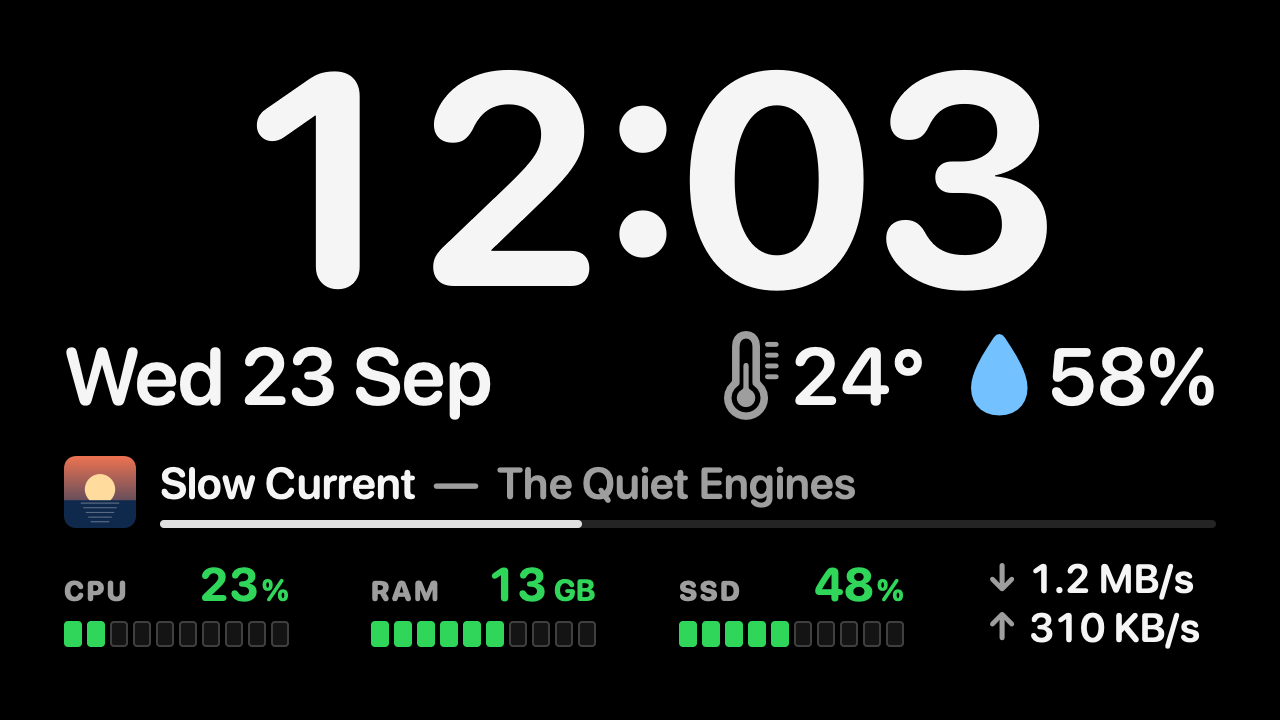
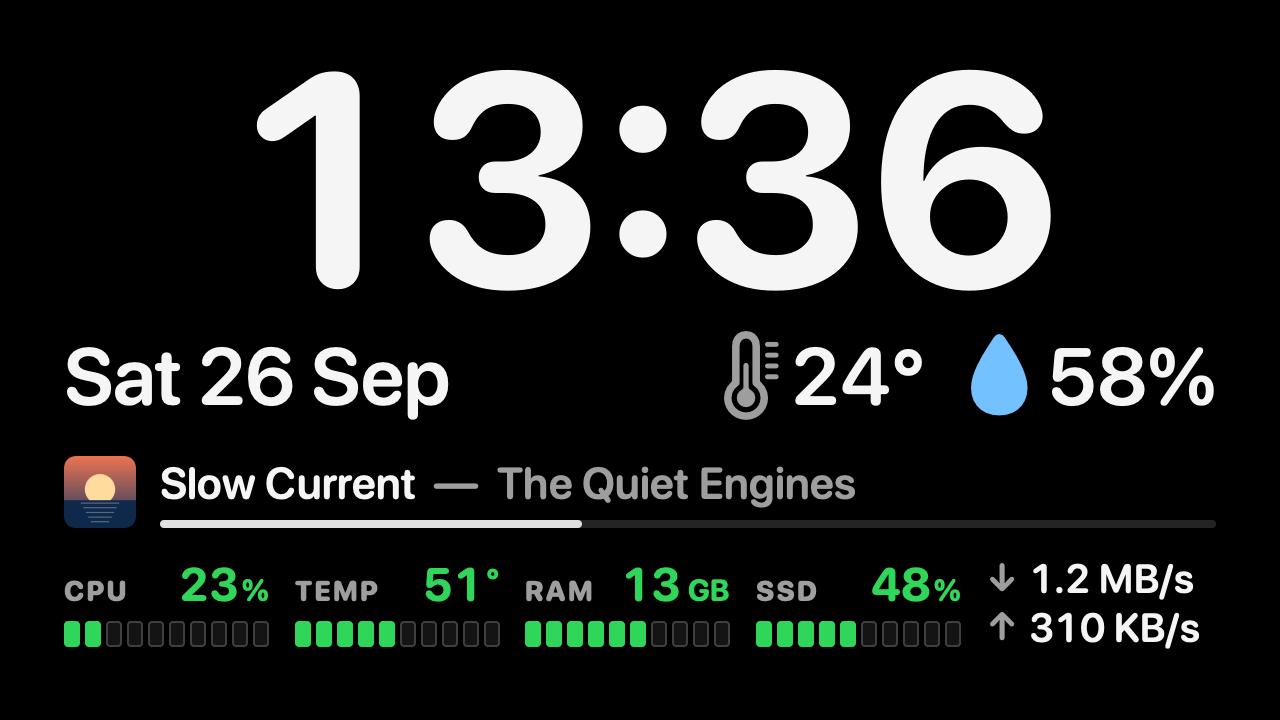
Clock page: the CPU's temperature beside its load
The stats row gains a TEMP meter after CPU: the average of the CPU
cores' temperature sensors, a segment per 10 °C, in °F when the weather
is. macOS has no public temperature API, so it reads the SMC through
IOKit's public calls, as temperature monitors do, with no root or
permission prompt, and only ever reads it. The sensors are the SMC's
float keys named Tp and Te (performance and efficiency cores), found
once by listing its keys. A read waits 3 to 6 ms on the SMC, under a
millisecond of it CPU time, so it runs every 5 s off the main thread.
Macs without the sensors leave the meter out.

Its color comes from macOS's thermal pressure rather than from degrees,
as memory's comes from memory pressure: under load the hottest core
passed 90 °C with the pressure still nominal, so a fixed threshold
would turn red on every build.

The meters narrow from 225 to 205 pt so five fit, the degree sign is
drawn small and raised like % and GB, and a rare value too wide for its
column (128 GB) shrinks slightly instead of truncating.

diff --git a/Sources/deskdash/SystemStats.swift b/Sources/deskdash/SystemStats.swift
@@ -1,5 +1,6 @@
 import Darwin
 import Foundation
+import IOKit
 
 /// The Mac's own load, for the row of meters on the clock page.
 struct SystemStats: Equatable, Sendable {
@@ -9,6 +10,8 @@ struct SystemStats: Equatable, Sendable {
     }
 
     var cpu: Double?  // share of all cores busy since the previous sample, 0...1
+    var temperature: Double?  // the CPU cores' average in °C; nil on a Mac without the sensors (CPUTemperature)
+    var thermal: ProcessInfo.ThermalState  // macOS's thermal pressure, which colors the temperature
     var memoryUsed: Double  // bytes in active, wired and compressed pages
     var memoryTotal: Double
     var pressure: Pressure
@@ -18,14 +21,15 @@ struct SystemStats: Equatable, Sendable {
 
     var memory: Double { memoryTotal > 0 ? memoryUsed / memoryTotal : 0 }
 
-    static let demo = SystemStats(cpu: 0.23, memoryUsed: 13.4 * 1_073_741_824, memoryTotal: 24 * 1_073_741_824,
-                                  pressure: .normal, diskUsed: 0.48, download: 1_240_000, upload: 310_000)
+    static let demo = SystemStats(cpu: 0.23, temperature: 51, thermal: .nominal, memoryUsed: 13.4 * 1_073_741_824,
+                                  memoryTotal: 24 * 1_073_741_824, pressure: .normal, diskUsed: 0.48,
+                                  download: 1_240_000, upload: 310_000)
 }
 
 /// Samples the Mac's load on every other clock tick, so new numbers reach the screen with the tick's own redraw.
 /// CPU, memory and network come straight from the kernel (Mach host statistics and sysctl), well under a
 /// millisecond together. The SSD's free space goes through the CacheDelete service, 6-40 ms a call, so it is
-/// read once a minute off the main thread.
+/// read once a minute off the main thread, and the CPU's temperature, which waits on the SMC for 3-6 ms, every 5 s.
 @MainActor
 final class SystemStatsService {
     private let dash: Dashboard
@@ -37,6 +41,8 @@ final class SystemStatsService {
     private var netSampled: TimeInterval?
     private var diskUsed: Double?
     private var diskTask: Task<Void, Never>?
+    private var temperature: Double?
+    private var temperatureTask: Task<Void, Never>?
 
     init(dash: Dashboard) {
         self.dash = dash
@@ -49,6 +55,7 @@ final class SystemStatsService {
         guard cfg.enabled != enabled else { return }
         enabled = cfg.enabled
         diskTask?.cancel()
+        temperatureTask?.cancel()
         cpuTicks = nil
         netSampled = nil
         guard enabled else {
@@ -60,6 +67,12 @@ final class SystemStatsService {
             while !Task.isCancelled {
                 diskUsed = await Task.detached(priority: .utility) { Self.readDisk() }.value
                 try? await Task.sleep(for: .seconds(60))
+            }
+        }
+        temperatureTask = Task {
+            while !Task.isCancelled {
+                temperature = await Task.detached(priority: .utility) { CPUTemperature.shared?.read() }.value
+                try? await Task.sleep(for: .seconds(5))
             }
         }
     }
@@ -75,6 +88,7 @@ final class SystemStatsService {
         apply(dash.config.stats)
         guard enabled else { return }
         diskUsed = Self.readDisk()
+        temperature = CPUTemperature.shared?.read()
         try? await Task.sleep(for: .seconds(1))
         sample()
     }
@@ -114,7 +128,8 @@ final class SystemStatsService {
         netSampled = now
 
         let pages = UInt64(vm.active_count) + UInt64(vm.wire_count) + UInt64(vm.compressor_page_count)
-        return SystemStats(cpu: cpu, memoryUsed: Double(pages) * pageSize,
+        return SystemStats(cpu: cpu, temperature: temperature, thermal: ProcessInfo.processInfo.thermalState,
+                           memoryUsed: Double(pages) * pageSize,
                            memoryTotal: Double(ProcessInfo.processInfo.physicalMemory),
                            pressure: SystemStats.Pressure(rawValue: level) ?? .normal, diskUsed: diskUsed,
                            download: download, upload: upload)
@@ -186,5 +201,91 @@ final class SystemStatsService {
               let free = values.volumeAvailableCapacityForImportantUsage
         else { return nil }
         return min(1, max(0, 1 - Double(free) / Double(total)))
+    }
+}
+
+// MARK: temperature
+
+/// The CPU's temperature, from the sensors on its cores. macOS publishes no temperature API, but the SMC, the
+/// controller that runs the fans and power, answers any process through IOKit's public calls, and temperature
+/// monitors read it that way. Its keys are undocumented four-letter codes. On Apple silicon the float keys named
+/// `Tp…` sit on the performance cores and `Te…` on the efficiency cores, 30 of them on an M6. Finding them lists
+/// the SMC's 2,000-odd keys once, 5-16 ms. A read then waits on the SMC 0.1-0.2 ms a sensor, 3-6 ms in all, of
+/// which under a millisecond is CPU. The connection stays open for the life of the process.
+struct CPUTemperature: Sendable {
+    /// Found on first use; nil on a Mac without the sensors, such as an Intel one.
+    static let shared = open()
+
+    private let connection: io_connect_t
+    private let keys: [UInt32]
+
+    /// The sensors' average in °C, leaving out any that reads nothing.
+    func read() -> Double? {
+        let values = keys.compactMap { Self.value(connection, $0) }
+        return values.isEmpty ? nil : values.reduce(0, +) / Double(values.count)
+    }
+
+    private static func open() -> CPUTemperature? {
+        let service = IOServiceGetMatchingService(kIOMainPortDefault, IOServiceMatching("AppleSMC"))
+        guard service != 0 else { return nil }
+        defer { IOObjectRelease(service) }
+        var connection: io_connect_t = 0
+        guard IOServiceOpen(service, mach_task_self_, 0, &connection) == KERN_SUCCESS else { return nil }
+        let total = call(connection, readKey, key: code("#KEY"), size: 4)  // how many keys there are, big-endian
+        let count = total.map { UInt32(bigEndian: word($0, at: 48)) } ?? 0
+        let cores = [code("Tp"), code("Te")], float = code("flt ")
+        var keys: [UInt32] = []
+        for index in 0..<count {
+            guard let key = call(connection, keyAtIndex, index: index).map({ word($0, at: 0) }),
+                  cores.contains(key >> 16),
+                  let info = call(connection, keyInfo, key: key),
+                  word(info, at: 28) == 4, word(info, at: 32) == float,  // 4 bytes, a Float32
+                  value(connection, key) != nil
+            else { continue }
+            keys.append(key)
+        }
+        guard !keys.isEmpty else {
+            IOServiceClose(connection)
+            return nil
+        }
+        return CPUTemperature(connection: connection, keys: keys)
+    }
+
+    /// A sensor's reading in °C, or nil when it reads 0, as the SMC's unused sensors do, or nonsense.
+    private static func value(_ connection: io_connect_t, _ key: UInt32) -> Double? {
+        guard let reply = call(connection, readKey, key: key, size: 4) else { return nil }
+        let celsius = Double(reply.withUnsafeBytes { $0.loadUnaligned(fromByteOffset: 48, as: Float32.self) })
+        return celsius > 0 && celsius < 150 ? celsius : nil
+    }
+
+    private static let readKey: UInt8 = 5, keyAtIndex: UInt8 = 8, keyInfo: UInt8 = 9
+
+    /// One request to the SMC, through its user client's single method (2). Request and reply are each an
+    /// SMCKeyData_t, 80 bytes, set and read here at its C offsets: the key at 0, the value's size and type at 28 and
+    /// 32, the SMC's result at 40, the command at 42, a key index at 44, and the value's bytes from 48.
+    private static func call(_ connection: io_connect_t, _ command: UInt8, key: UInt32 = 0, index: UInt32 = 0,
+                             size: UInt32 = 0) -> [UInt8]? {
+        var request = [UInt8](repeating: 0, count: 80)
+        request.withUnsafeMutableBytes {
+            $0.storeBytes(of: key, toByteOffset: 0, as: UInt32.self)
+            $0.storeBytes(of: size, toByteOffset: 28, as: UInt32.self)
+            $0[42] = command
+            $0.storeBytes(of: index, toByteOffset: 44, as: UInt32.self)
+        }
+        var reply = [UInt8](repeating: 0, count: 80)
+        var length = reply.count
+        guard IOConnectCallStructMethod(connection, 2, request, request.count, &reply, &length) == kIOReturnSuccess,
+              reply[40] == 0
+        else { return nil }
+        return reply
+    }
+
+    private static func word(_ reply: [UInt8], at offset: Int) -> UInt32 {
+        reply.withUnsafeBytes { $0.loadUnaligned(fromByteOffset: offset, as: UInt32.self) }
+    }
+
+    /// "Tp05" → 0x54703035, a key's characters as the SMC packs them.
+    private static func code(_ name: String) -> UInt32 {
+        name.utf8.reduce(0) { $0 << 8 | UInt32($1) }
     }
 }

diff --git a/Sources/deskdash/Views.swift b/Sources/deskdash/Views.swift
@@ -54,6 +54,14 @@ enum Theme {
         case .critical: down
         }
     }
+
+    static func color(_ thermal: ProcessInfo.ThermalState) -> Color {
+        switch thermal {
+        case .nominal: up
+        case .fair: waiting
+        default: down  // serious (fans at full speed) or critical (the chip slowed down to cool)
+        }
+    }
 }
 
 struct RootView: View {
@@ -193,7 +201,7 @@ struct ClockPage: View {
                     .padding(.bottom, stats == nil ? 0 : 26)
             }
             if let stats {
-                StatsRow(stats: stats)
+                StatsRow(stats: stats, fahrenheit: dash.config.weather.fahrenheit)
                     .padding(.horizontal, 64)
             }
         }
@@ -204,10 +212,12 @@ struct ClockPage: View {
 
 /// The Mac's load along the bottom of the clock page, in the Climate page's segment bars laid on their side.
 /// CPU turns amber at 70% and red at 90%, the SSD at 80% and 90%. Memory takes its color from macOS's memory
-/// pressure rather than from how full it is, since macOS keeps memory full on purpose. Every column has a fixed
-/// width, so changing numbers never shift the row.
+/// pressure rather than from how full it is, since macOS keeps memory full on purpose, and the temperature from
+/// macOS's thermal pressure rather than from degrees, since Apple silicon runs its cores past 90 °C on purpose. Its
+/// bar is a segment per 10 °C. Every column has a fixed width, so changing numbers never shift the row.
 struct StatsRow: View {
     let stats: SystemStats
+    let fahrenheit: Bool
 
     var body: some View {
         let cpu = stats.cpu.map { ($0 * 100).rounded() / 100 }  // the color follows the number shown
@@ -216,6 +226,11 @@ struct StatsRow: View {
             StatMeter(label: "CPU", value: cpu.map(Fmt.wholePercent), unit: "%", fraction: cpu,
                       color: Theme.quality(cpu, fair: 0.7, poor: 0.9))
             Spacer(minLength: 20)
+            if let celsius = stats.temperature {
+                StatMeter(label: "TEMP", value: Fmt.degrees(celsius, fahrenheit: fahrenheit), unit: "°",
+                          fraction: celsius / 100, color: Theme.color(stats.thermal))
+                Spacer(minLength: 20)
+            }
             StatMeter(label: "RAM", value: Fmt.gigabytes(stats.memoryUsed), unit: "GB", fraction: stats.memory,
                       color: Theme.color(stats.pressure))
             Spacer(minLength: 20)
@@ -242,6 +257,7 @@ struct StatMeter: View {
                     .font(Theme.font(28, .heavy))
                     .tracking(2)
                     .foregroundStyle(Theme.secondary)
+                    .fixedSize()
                 Spacer(minLength: 8)
                 Text(value ?? "–")
                     .font(Theme.font(46, .bold))
@@ -251,14 +267,16 @@ struct StatMeter: View {
                     Text(unit)
                         .font(Theme.font(30, .bold))
                         .foregroundStyle(color)
-                        .padding(.leading, unit == "%" ? 2 : 6)
+                        .padding(.leading, unit == "GB" ? 6 : 2)  // a word keeps a space, a sign hugs the number
+                        .baselineOffset(unit == "°" ? 11 : 0)  // up to the digits' tops, where a degree sign sits
                 }
             }
             .lineLimit(1)
-            SegmentBar(lit: lit, color: color, horizontal: true, segment: CGSize(width: 18, height: 26), spacing: 5,
+            .minimumScaleFactor(0.8)  // a rare wide value, such as 128 GB, shrinks a little rather than truncating
+            SegmentBar(lit: lit, color: color, horizontal: true, segment: CGSize(width: 16, height: 26), spacing: 5,
                        corner: 4)
         }
-        .frame(width: 225)
+        .frame(width: 205)
     }
 
     /// In proportion; anything above zero lights at least one segment.
@@ -1111,7 +1129,12 @@ enum Fmt {
     }
 
     static func temperature(_ celsius: Double, fahrenheit: Bool, decimals: Int) -> String {
-        String(format: "%.\(decimals)f°", fahrenheit ? celsius * 9 / 5 + 32 : celsius)
+        degrees(celsius, fahrenheit: fahrenheit, decimals: decimals) + "°"
+    }
+
+    /// The number alone, for a meter that draws its ° smaller.
+    static func degrees(_ celsius: Double, fahrenheit: Bool, decimals: Int = 0) -> String {
+        String(format: "%.\(decimals)f", fahrenheit ? celsius * 9 / 5 + 32 : celsius)
     }
 
     /// About five significant digits: 86,276 · 2,743.9 · 118.19 · 97.01 · 0.2165

diff --git a/Sources/deskdash/Settings.swift b/Sources/deskdash/Settings.swift
@@ -161,7 +161,7 @@ private struct GeneralSettings: View {
             }
             Section("Clock") {
                 Toggle("24-hour clock", isOn: model.setting(\.clock.use24h))
-                Toggle("CPU, memory, SSD and network along the bottom", isOn: model.setting(\.stats.enabled))
+                Toggle("CPU, temperature, memory, SSD and network along the bottom", isOn: model.setting(\.stats.enabled))
                 Toggle("What's playing in Music or Spotify", isOn: model.setting(\.music.onClock))
                 LabeledContent("Time zone") {
                     HStack {

diff --git a/Sources/deskdash/Config.swift b/Sources/deskdash/Config.swift
@@ -109,7 +109,7 @@ struct Config: Codable, Equatable, Sendable {
     }
 
     struct Stats: Codable, Equatable, Sendable {
-        /// CPU, memory, SSD and network meters along the bottom of the clock page.
+        /// CPU, temperature, memory, SSD and network meters along the bottom of the clock page.
         var enabled = true
     }
 

diff --git a/CLAUDE.md b/CLAUDE.md
@@ -21,7 +21,7 @@ A full-screen dashboard for the Wokyis dock's 5" 1280×720 screen: clock and wea
 - `Dashboard.swift`: the observable model, page rotation, and alert jumps.
 - `Markets.swift` (Hyperliquid WebSocket + candles), `Weather.swift` (Open-Meteo, for the place chosen in Settings), `Agents.swift` (Claude registry and hook files): each service writes into `Dashboard` on the main actor.
 - `Tokens.swift`: the tokens page's numbers. `TokenScanner` reads the logs of Claude Code, Codex, Gemini CLI and Muse Code where each agent writes them, from where it stopped last time (Gemini's sessions whole, since it writes them over), and counts each reply once, by id. It keeps each day's totals in `tokens.history`, since Claude Code deletes transcripts after 30 days. `TokensService` runs it on the tick: every 10 s while the page shows, every 5 min otherwise. `LocalDay` is a calendar day as a plain number.
-- `SystemStats.swift`: CPU, memory, SSD, and network for the clock page, sampled on every other tick (`SystemStatsService.sample`).
+- `SystemStats.swift`: CPU, temperature, memory, SSD, and network for the clock page, sampled on every other tick (`SystemStatsService.sample`). `CPUTemperature` reads the CPU cores' sensors from the SMC.
 - `NowPlaying.swift`: Music's and Spotify's distributed notifications (`NowPlayingService`, published on the tick by `flush`), the playhead estimate, and cover lookups (`CoverLookup`). `deskdash music` prints what it hears. `scripts/fake-track.swift` posts a made-up announcement.
 - `Views.swift`: everything drawn, on a fixed 1280×720 canvas scaled to the window.
 - `MQTT.swift` (a minimal MQTT 3.1 client), `Dyson.swift` (the purifier service and its readings), `DysonSetup.swift` (connecting the purifier: the steps Settings → Purifier and `deskdash dyson setup | test` share, including the one-time Dyson cloud login).
@@ -41,6 +41,6 @@ A full-screen dashboard for the Wokyis dock's 5" 1280×720 screen: clock and wea
 - The agents' transcripts hold whole conversations. Token counting decodes only the lines that carry token counts, and keeps only the counts and times: never store, log, or show anything else from them. The logs are only read, never written.
 - Keep token scans cheap. The first pass reads everything in reach. After that a scan reads only appended bytes, and between the 5-minute thorough passes it lists only folders that gained a file and looks only at logs written in the last day: about 1 ms on 2,400 logs, where listing them all took 10. Check the cost on a big made-up history with `deskdash tokens --watch` and `ps -o time=`.
 - Now playing listens only to the players' own distributed notifications. No AppleScript: it triggers macOS Automation permission prompts. No MediaRemote: it's private, and macOS restricts it. Never poll the players.
-- System stats come from the kernel on the tick. Anything slow goes off the main thread on a slow cadence: the SSD's free-space query goes through CacheDelete (6 to 40 ms), so it runs once a minute.
+- System stats come from the kernel on the tick. Anything slow goes off the main thread on a slow cadence: the SSD's free-space query goes through CacheDelete (6 to 40 ms), so it runs once a minute, and the temperature waits 3 to 6 ms on the SMC, so it runs every 5 s. The SMC is only ever read: never write a key, since its keys also set the fans and power limits.
 - The Dyson connection is read-only: never send `STATE-SET`. `secrets/dyson.json` holds a device credential; never print it, log it, or commit it. Connecting the purifier (Settings → Purifier, or `deskdash dyson setup`) asks a person for secrets; an agent does not run it or type into it. A password is cleared once used and never saved or logged. Test protocol and setup changes against a fake broker first, with a scratch credentials path in the config. `dyson test --host 127.0.0.1:PORT --config FILE` points at one.
 - `config.json` is gitignored (personal settings). New settings go in `Config.swift` with a neutral default, and are documented in `config.example.json`; `deskdash config --config config.example.json` prints `{}` while the two agree.

diff --git a/README.md b/README.md
@@ -26,6 +26,7 @@ Changes apply at once and are saved to `config.json`, writing only what differs 
 
 - **Clock**: time, date, and the indoor temperature and humidity from a Dyson purifier (see [Climate](#climate-the-dyson-purifier)). Without one, outdoor readings for your city from [Open-Meteo](https://open-meteo.com) (no key, refreshed every 15 min). Along the bottom, this Mac's own load, in small versions of the Climate page's 10-segment bars:
   - **CPU**: amber from 70%, red from 90%.
+  - **Temp**: the CPU cores' average temperature, a segment per 10 °C (see [System stats](#system-stats)). Colored by macOS's thermal pressure (green nominal, amber fair, red serious or critical) rather than by degrees, because Apple silicon runs its cores past 90 °C under load by design. It's in °F when the weather is. Macs without the sensors, such as Intel ones, leave it out.
   - **RAM**: colored by macOS's memory pressure (green normal, amber warning, red critical) rather than by how full it is, because macOS keeps memory full on purpose.
   - **SSD**: space used, counting purgeable files as free the way Finder does. Amber from 80%, red from 90%.
   - **Network**: download and upload rates over Ethernet and Wi-Fi.
@@ -95,6 +96,10 @@ The clock page reads this Mac's load from the kernel every 2 s, and the numbers 
 - **Network**: the 64-bit byte counters of the `en*` interfaces. VPN tunnels are left out, because their traffic also crosses Ethernet or Wi-Fi.
 
 All of that costs well under a millisecond. The SSD's free space goes through macOS's purgeable-space service and takes 6 to 40 ms, so it's read once a minute, off the main thread. `"stats": { "enabled": false }` removes the row and stops the sampling.
+
+**Temperature.** macOS has no public API for it, so it comes from the SMC, the controller that runs the Mac's fans and power. Any app can read the SMC through IOKit's public calls, without root or a permission prompt, and temperature monitors read it the same way. deskdash only reads it, never writes. Its sensors have undocumented four-letter names. deskdash averages the ones on the CPU cores, `Tp…` on the performance cores and `Te…` on the efficiency cores, 30 of them on an M6 Mac mini. Finding them takes 5 to 16 ms, once. A read then waits 3 to 6 ms on the SMC, under a millisecond of it CPU time, so it runs every 5 s, off the main thread.
+
+The color comes from macOS's thermal pressure, not the degrees. On that M6 under load, the hottest core reached 96 °C and the average 72 °C, while the pressure stayed nominal and the fan turned at 2,300 of its 4,900 rpm.
 
 ## How agent status works
 
